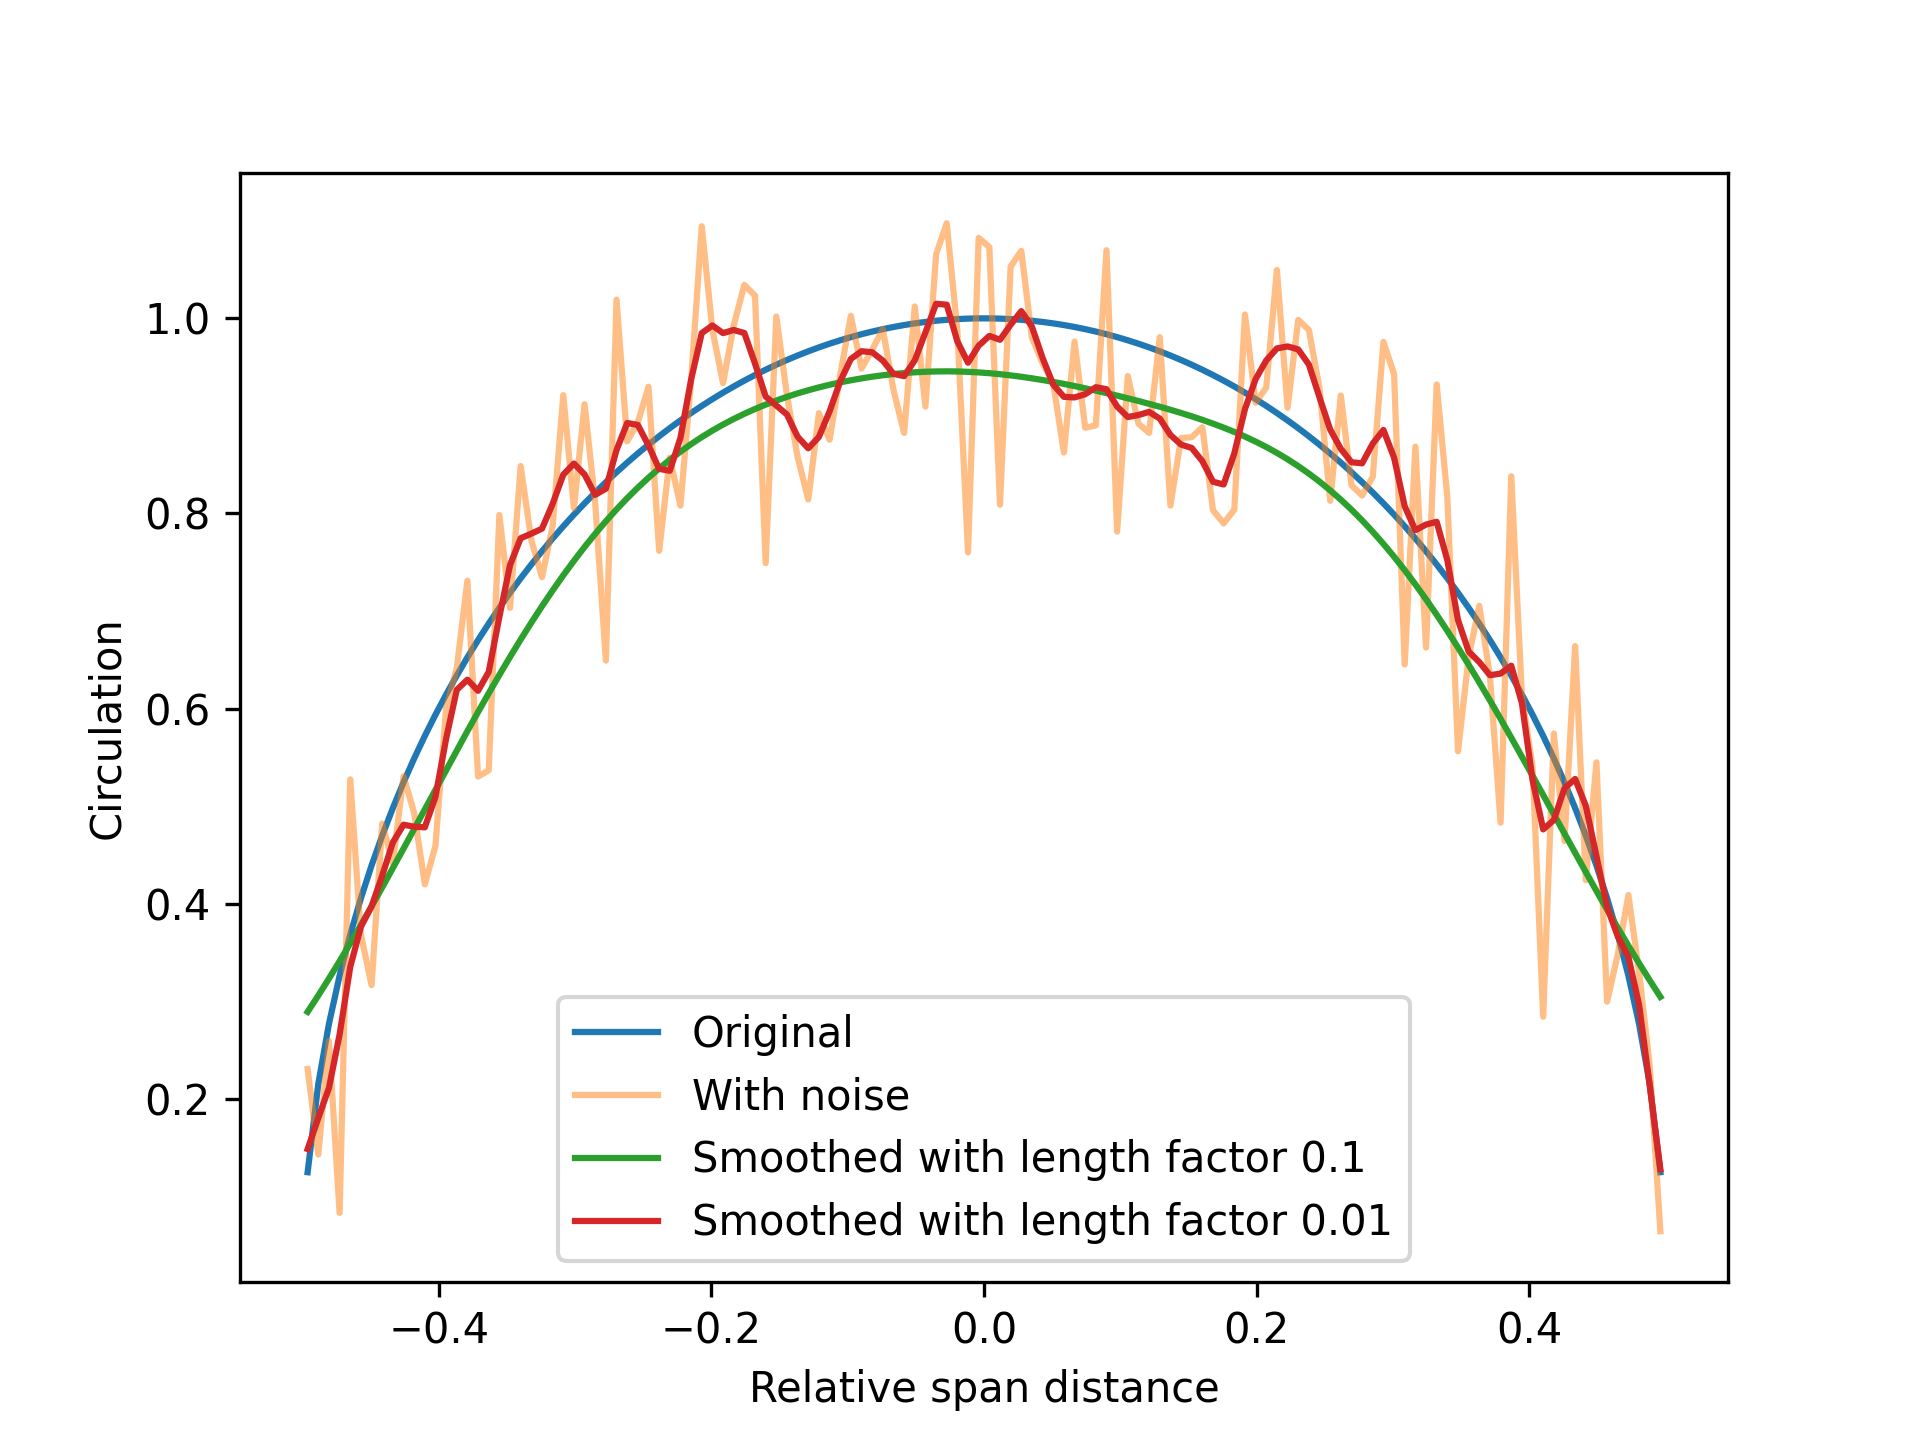
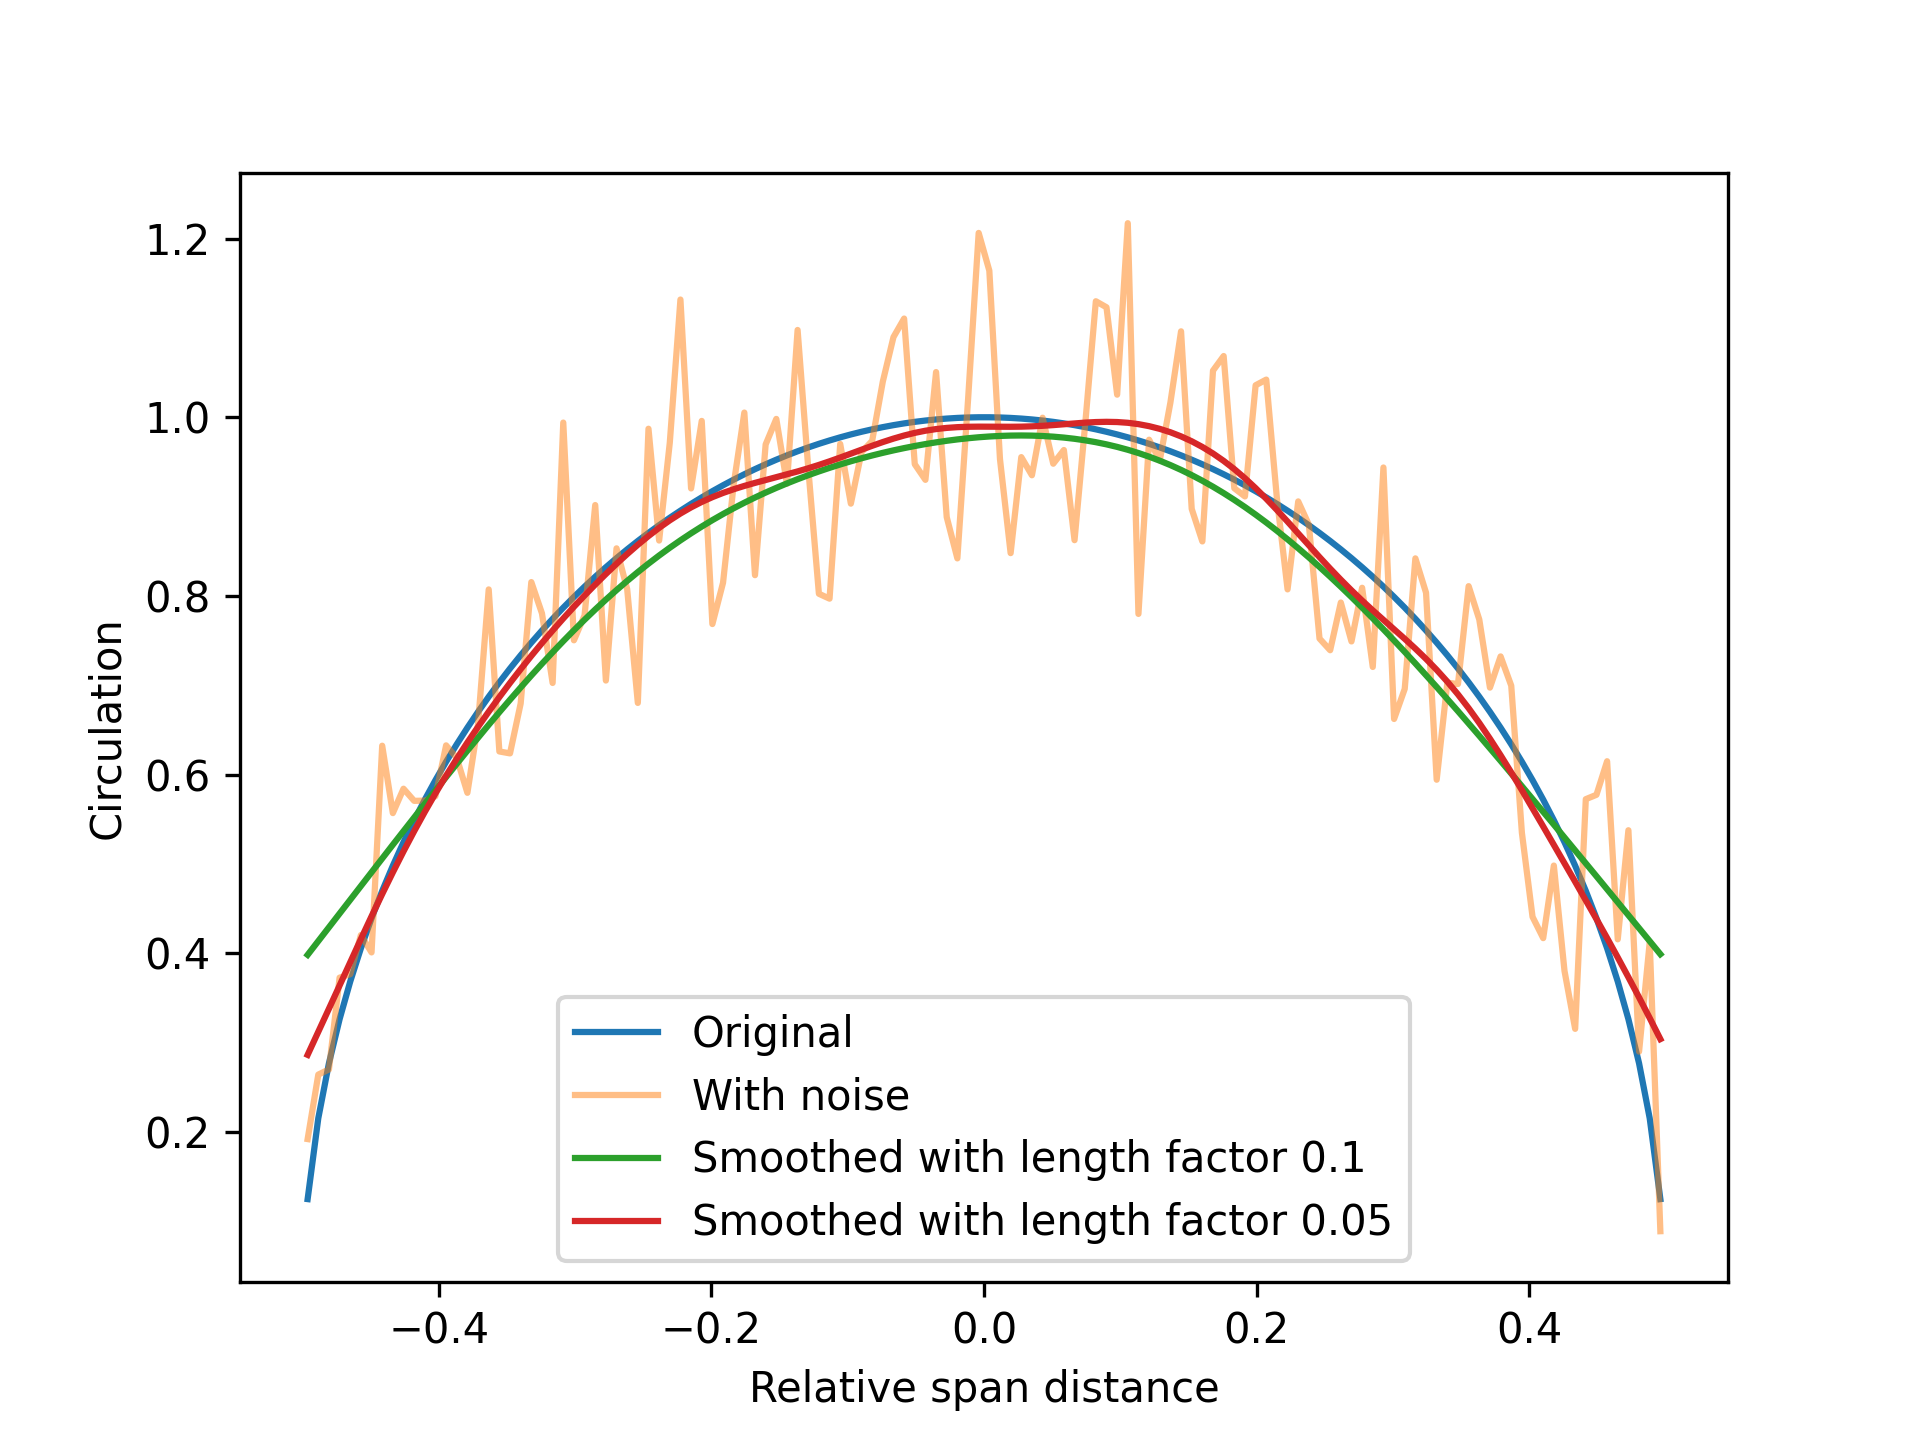
update

diff --git a/stormbird/src/line_force_model/smoothing.rs b/stormbird/src/line_force_model/smoothing.rs
@@ -72,12 +72,12 @@ impl LineForceModel {
 
             let start_index = if end_corrections.0 {
                 let delta_span = local_span_distance[1] - local_span_distance[0];
-                let mut span_to_be_inserted = delta_span;
+                let mut span_to_be_inserted = 0.5 * delta_span;
 
                 let mut number_of_insertions = 0;
 
                 while span_to_be_inserted <= end_corrections_distance_factor * smoothing_length {
-                    local_span_distance.insert(0, local_span_distance[0] - delta_span);
+                    local_span_distance.insert(0, local_span_distance[0] - span_to_be_inserted);
                     local_noisy_strength.insert(0, 0.0);
                     span_to_be_inserted += delta_span;
                     number_of_insertions += 1;
@@ -90,12 +90,12 @@ impl LineForceModel {
 
             let end_index = if end_corrections.1 {
                 let delta_span = local_span_distance[local_span_distance.len()-1] - local_span_distance[local_span_distance.len()-2];
-                let mut span_to_be_inserted = delta_span;
+                let mut span_to_be_inserted = 0.5 * delta_span;
 
                 let mut number_of_insertions = 0;
 
                 while span_to_be_inserted <= end_corrections_distance_factor * smoothing_length {
-                    local_span_distance.push(local_span_distance[local_span_distance.len()-1] + delta_span);
+                    local_span_distance.push(local_span_distance[local_span_distance.len()-1] + span_to_be_inserted);
                     local_noisy_strength.push(0.0);
                     span_to_be_inserted += delta_span;
                     number_of_insertions += 1;

diff --git a/book/src/line_model/plot_scripts/gaussian_smoothing_example.py b/book/src/line_model/plot_scripts/gaussian_smoothing_example.py
@@ -38,7 +38,7 @@ if __name__ == '__main__':
     plt.plot(relative_span_distance, circulation_org, label="Original")
     plt.plot(relative_span_distance, circulation_noisy, label="With noise", alpha=0.5)
 
-    smoothing_lengths = [0.1, 0.01]
+    smoothing_lengths = [0.1, 0.05]
 
     for length_factor in smoothing_lengths:
         circulation_smoothed = line_force_model.gaussian_smoothed_strength(
